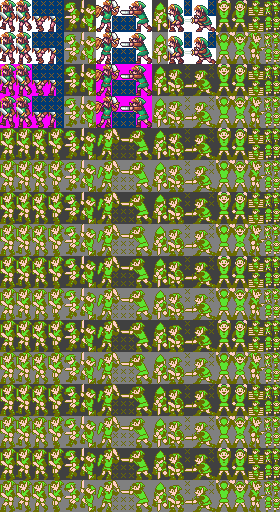
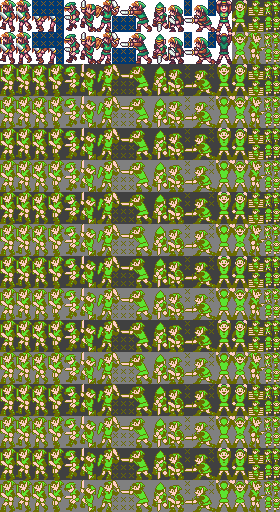
Parapa cave & Link
Added object layer and foreground for dark version of Parapa cave and updated Link sprites. Also added in new hurt Link animation colors

diff --git a/README.md b/README.md
@@ -6,6 +6,9 @@ Art: HaddianKey
 
 Additional work by: Evan.F, Aclectico, & Max Deacon VR
 
+# Requres Mesen 0.9.9-210811 or latest!
+
+https://github.com/mkwong98/Mesen/releases
 
 # To-Do (in no particular order)
 
@@ -18,3 +21,5 @@ NPC portraits
 Finish level up system (icons, layout, etc)
 
 Finish character name creation and file select
+
+Title screen
